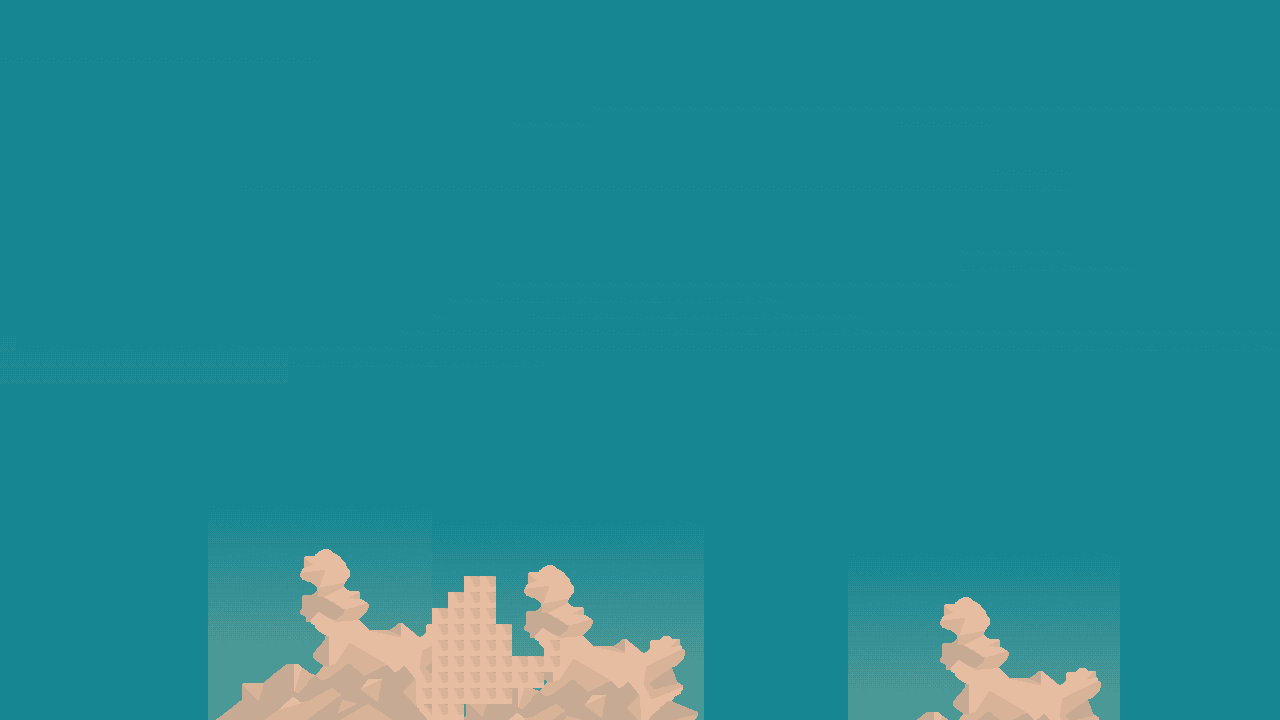
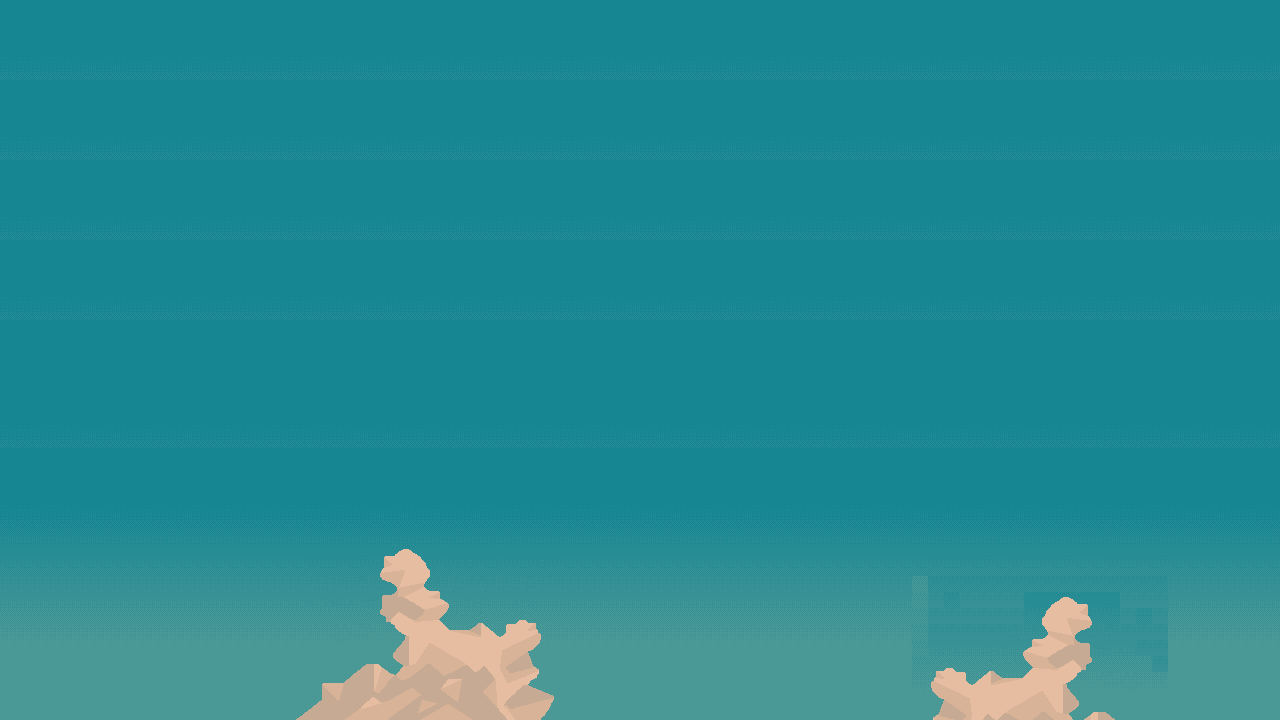
feat: Complete map 1

Changed region(s): [[0.0, 0.7639, 1.0, 1.0]]

diff --git a/src/Map1Boss.cpp b/src/Map1Boss.cpp
@@ -1,7 +1,7 @@
 #include "Map1Boss.h"
 #include "BulletHandler.h"
 
-Map1Boss::Map1Boss() : m_dyingTime(50), m_health(100), m_bulletFiringSpeed(70), m_moveSpeed(1), m_movingLeft(true) {}
+Map1Boss::Map1Boss() : m_dyingTime(5000), m_health(100), m_bulletFiringSpeed(70), m_moveSpeed(1), m_movingLeft(true) {}
 
 void Map1Boss::load(const LoaderParams *pParams) {
     ShooterObject::load(pParams);
@@ -32,6 +32,7 @@ void Map1Boss::collision() {
 
 void Map1Boss::update() {
     if (!m_bDying) {
+        m_currentFrame = int((SDL_GetTicks() / 100) % m_numFrames);
         if (m_position.getX() > 0 && m_movingLeft) {
             scroll(Game::Instance()->getScrollSpeed());
         } else if (m_position.getX() + m_width * m_scaleFactor >= Game::Instance()->getGameWidth()) {
@@ -49,7 +50,7 @@ void Map1Boss::update() {
         }
 
         if (m_bulletCounter == m_bulletFiringSpeed) {
-            Vector2D headingDirections[] = {Vector2D(0, 3), Vector2D(3, 0), Vector2D(-3, 0), Vector2D(0, -3),
+            Vector2D headingDirections[] = {Vector2D(0, 3), Vector2D(3, 0), Vector2D(0, -3),
                                             Vector2D(3, 3), Vector2D(-3, 3), Vector2D(3, -3), Vector2D(-3, -3)};
             for (Vector2D heading: headingDirections) {
                 BulletHandler::Instance()->addEnemyBullet(m_position.getX() + m_width / 2,
@@ -63,5 +64,6 @@ void Map1Boss::update() {
     } else {
         scroll(Game::Instance()->getScrollSpeed());
         doDyingAnimation();
+        Game::Instance() ->setLevelComplete(true);
     }
 }

diff --git a/src/Player.cpp b/src/Player.cpp
@@ -9,7 +9,7 @@ Player::Player() : ShooterObject(), m_invulnerable(false),
 void Player::load(const LoaderParams* pParams) {
     ShooterObject::load(pParams);
     m_moveSpeed = 5;
-    m_bulletFiringSpeed = 13;
+    m_bulletFiringSpeed = 15;
 
     m_bulletCounter = m_bulletFiringSpeed;
 
@@ -79,7 +79,7 @@ void Player::handleInput() {
                 bulletHeading.setX(-m_bulletFiringSpeed);
                 tempX = m_position.getX() - m_width * m_scaleFactor / 2;
             }
-            BulletHandler::Instance() ->addPlayerBullet(tempX, m_position.getY() + (m_height * m_scaleFactor) / 2, 16, 16, "bullet", 1, bulletHeading);
+            BulletHandler::Instance() ->addPlayerBullet(tempX, m_position.getY() + (m_height * m_scaleFactor) / 2, 16, 16, "playerBullet", 1, bulletHeading);
             m_bulletCounter = 0;
         }
         m_bulletCounter++;

diff --git a/src/PlayState.cpp b/src/PlayState.cpp
@@ -36,7 +36,7 @@ void PlayState::render() {
     pLevel ->render();
     BulletHandler::Instance()->drawBullets();
     for (int i = 0; i < Game::Instance() -> getPlayerLives(); i++) {
-        TextureManager::Instance() ->drawFrame("lives", 40 * i, 0, 32, 32, 0, 0, Game::Instance() -> getRenderer());
+        TextureManager::Instance() ->drawFrame("lives", 20 + 42 * i, 20, 42, 42, 0, 0, Game::Instance() -> getRenderer());
     }
 }
 
@@ -48,7 +48,7 @@ bool PlayState::onEnter() {
     GameObjectFactory::Instance()->registerType("Map1Boss", new Map1BossCreator());
     Game::Instance() ->setPlayerLives(3);
     LevelParser levelParser;
-    pLevel = levelParser.parseLevel("data/map1_new.tmx");
+    pLevel = levelParser.parseLevel("data/map1.tmx");
 
     std::cout << "Entering PlayState" << std::endl;
     return true;

diff --git a/src/FlyingEnemy.cpp b/src/FlyingEnemy.cpp
@@ -1,7 +1,7 @@
 #include "FlyingEnemy.h"
 #include "BulletHandler.h"
 
-FlyingEnemy::FlyingEnemy() : m_dyingTime(50), m_health(10), m_bulletFiringSpeed(50){}
+FlyingEnemy::FlyingEnemy() : m_dyingTime(50), m_health(10), m_bulletFiringSpeed(100){}
 
 void FlyingEnemy::update() {
     if (!m_bDying) {
@@ -12,6 +12,7 @@ void FlyingEnemy::update() {
             m_bulletCounter = 0;
         }
         m_bulletCounter++;
+        m_currentFrame = int((SDL_GetTicks() / 100) % m_numFrames);
     } else {
         scroll(Game::Instance() -> getScrollSpeed());
         doDyingAnimation();

diff --git a/src/FloatingEnemy.cpp b/src/FloatingEnemy.cpp
@@ -16,6 +16,7 @@ void FloatingEnemy::load(const LoaderParams *pParams) {
 
 void FloatingEnemy::update() {
     scroll(Game::Instance() -> getScrollSpeed());
+    m_currentFrame = int((SDL_GetTicks() / 100) % m_numFrames);
     if (!m_bDying) {
         if (m_position.getY() + m_height * m_scaleFactor >= Game::Instance() ->getGameHeight()) {
             m_velocity.setY(-m_moveSpeed / 2);
